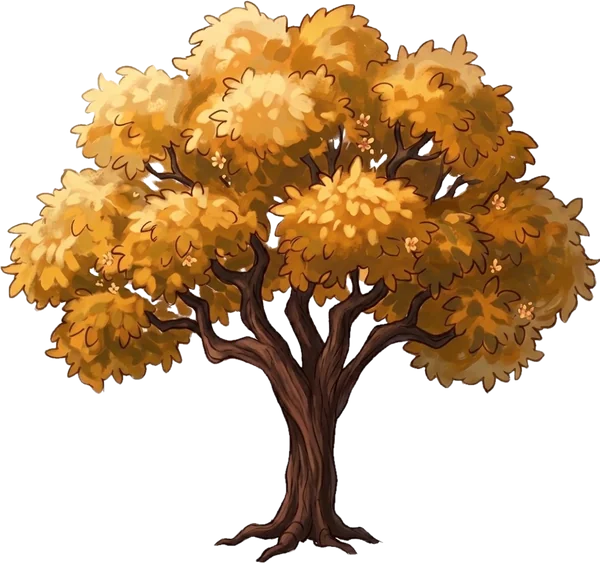
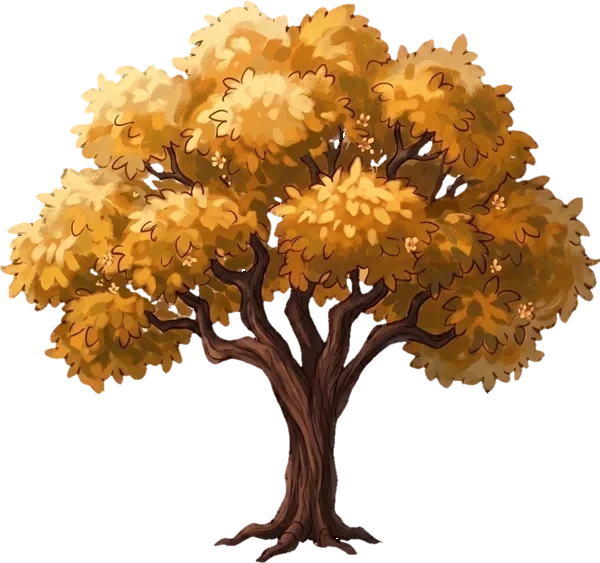
Prunera: sense la vora blanquinosa ni les taques blanques (nova eina netejar_vora.py)
Claude-Session: https://claude.ai/code/session_01Lxfm6YSSDLi4GYSBQ6SeDm

diff --git a/index.html b/index.html
@@ -32,7 +32,7 @@
     <!-- Tipografies al nostre servidor (eines/baixa_tipografies.py): el joc no demana res a Google -->
     <link rel="stylesheet" href="assets/fonts/fonts.css">
     <!-- Phaser va amb el joc (així no depèn de cap servidor extern); si el fitxer local fallés, es prova el CDN -->
-    <script src="js/lib/phaser.min.js?v=2611201745.80.1"></script>
+    <script src="js/lib/phaser.min.js?v=2611201747.80.1"></script>
     <script>if (typeof Phaser === 'undefined') document.write('<script src="https://cdn.jsdelivr.net/npm/phaser@3.80.1/dist/phaser.min.js"><\/script>');</script>
 </head>
 <body>
@@ -61,63 +61,63 @@
     <div id="joc"></div>
 
     <!-- L'ordre importa: cada fitxer fa servir coses dels anteriors -->
-    <script src="js/sfx.js?v=2611201745"></script>
-    <script src="js/partida.js?v=2611201745"></script>
-    <script src="js/progres.js?v=2611201745"></script>
-    <script src="js/dibuixos.js?v=2611201745"></script>
-    <script src="js/icones.js?v=2611201745"></script>
-    <script src="js/dibuixos_biblio.js?v=2611201745"></script>
-    <script src="js/dibuixos_cela.js?v=2611201745"></script>
-    <script src="js/dibuixos_taller.js?v=2611201745"></script>
-    <script src="js/dibuixos_cripta.js?v=2611201745"></script>
-    <script src="js/dibuixos_georgi.js?v=2611201745"></script>
-    <script src="js/dibuixos_oratori.js?v=2611201745"></script>
-    <script src="js/dibuixos_ermita.js?v=2611201745"></script>
-    <script src="js/dibuixos_casa.js?v=2611201745"></script>
-    <script src="js/dibuixos_proleg.js?v=2611201745"></script>
-    <script src="js/dibuixos_pingpong.js?v=2611201745"></script>
-    <script src="js/assets.js?v=2611201745"></script>
-    <script src="js/sombra_ineu.js?v=2611201745"></script>
-    <script src="js/dialegs.js?v=2611201745"></script>
-    <script src="js/ui.js?v=2611201745"></script>
-    <script src="js/zona_base.js?v=2611201745"></script>
-    <script src="js/atac_arma.js?v=2611201745"></script>
-    <script src="js/combat.js?v=2611201745"></script>
-    <script src="js/musica.js?v=2611201745"></script>
-    <script src="js/zones/placa.js?v=2611201745"></script>
-    <script src="js/zones/esglesia.js?v=2611201745"></script>
-    <script src="js/zones/monestir.js?v=2611201745"></script>
-    <script src="js/zones/bassadoria.js?v=2611201745"></script>
-    <script src="js/zones/casa_gran.js?v=2611201745"></script>
-    <script src="js/zones/nord.js?v=2611201745"></script>
-    <script src="js/zones/cirosa.js?v=2611201745"></script>
-    <script src="js/estels.js?v=2611201745"></script>
-    <script src="js/pingpong.js?v=2611201745"></script>
-    <script src="js/credits.js?v=2611201745"></script>
-    <script src="js/zones/oest.js?v=2611201745"></script>
-    <script src="js/zones/bosc_pi.js?v=2611201745"></script>
-    <script src="js/zones/cementiri.js?v=2611201745"></script>
-    <script src="js/zones/casa.js?v=2611201745"></script>
-    <script src="js/zones/cabana.js?v=2611201745"></script>
-    <script src="js/zones/cami.js?v=2611201745"></script>
-    <script src="js/zones/ermita.js?v=2611201745"></script>
-    <script src="js/zones/era.js?v=2611201745"></script>
-    <script src="js/zones/jardi.js?v=2611201745"></script>
-    <script src="js/zones/torre.js?v=2611201745"></script>
-    <script src="js/zones/hostatgeria.js?v=2611201745"></script>
-    <script src="js/zones/taverna.js?v=2611201745"></script>
-    <script src="js/zones/gabia.js?v=2611201745"></script>
-    <script src="js/zones/gabia_decor.js?v=2611201745"></script>
-    <script src="js/zones/biblioteca.js?v=2611201745"></script>
-    <script src="js/zones/rebedor.js?v=2611201745"></script>
-    <script src="js/zones/cela.js?v=2611201745"></script>
-    <script src="js/diari.js?v=2611201745"></script>
-    <script src="js/mapa.js?v=2611201745"></script>
-    <script src="js/proves_llistes.js?v=2611201745"></script>
-    <script src="js/proves_escenaris.js?v=2611201745"></script>
-    <script src="js/proves.js?v=2611201745"></script>
-    <script src="js/intro.js?v=2611201745"></script>
-    <script src="js/main.js?v=2611201745"></script>
+    <script src="js/sfx.js?v=2611201747"></script>
+    <script src="js/partida.js?v=2611201747"></script>
+    <script src="js/progres.js?v=2611201747"></script>
+    <script src="js/dibuixos.js?v=2611201747"></script>
+    <script src="js/icones.js?v=2611201747"></script>
+    <script src="js/dibuixos_biblio.js?v=2611201747"></script>
+    <script src="js/dibuixos_cela.js?v=2611201747"></script>
+    <script src="js/dibuixos_taller.js?v=2611201747"></script>
+    <script src="js/dibuixos_cripta.js?v=2611201747"></script>
+    <script src="js/dibuixos_georgi.js?v=2611201747"></script>
+    <script src="js/dibuixos_oratori.js?v=2611201747"></script>
+    <script src="js/dibuixos_ermita.js?v=2611201747"></script>
+    <script src="js/dibuixos_casa.js?v=2611201747"></script>
+    <script src="js/dibuixos_proleg.js?v=2611201747"></script>
+    <script src="js/dibuixos_pingpong.js?v=2611201747"></script>
+    <script src="js/assets.js?v=2611201747"></script>
+    <script src="js/sombra_ineu.js?v=2611201747"></script>
+    <script src="js/dialegs.js?v=2611201747"></script>
+    <script src="js/ui.js?v=2611201747"></script>
+    <script src="js/zona_base.js?v=2611201747"></script>
+    <script src="js/atac_arma.js?v=2611201747"></script>
+    <script src="js/combat.js?v=2611201747"></script>
+    <script src="js/musica.js?v=2611201747"></script>
+    <script src="js/zones/placa.js?v=2611201747"></script>
+    <script src="js/zones/esglesia.js?v=2611201747"></script>
+    <script src="js/zones/monestir.js?v=2611201747"></script>
+    <script src="js/zones/bassadoria.js?v=2611201747"></script>
+    <script src="js/zones/casa_gran.js?v=2611201747"></script>
+    <script src="js/zones/nord.js?v=2611201747"></script>
+    <script src="js/zones/cirosa.js?v=2611201747"></script>
+    <script src="js/estels.js?v=2611201747"></script>
+    <script src="js/pingpong.js?v=2611201747"></script>
+    <script src="js/credits.js?v=2611201747"></script>
+    <script src="js/zones/oest.js?v=2611201747"></script>
+    <script src="js/zones/bosc_pi.js?v=2611201747"></script>
+    <script src="js/zones/cementiri.js?v=2611201747"></script>
+    <script src="js/zones/casa.js?v=2611201747"></script>
+    <script src="js/zones/cabana.js?v=2611201747"></script>
+    <script src="js/zones/cami.js?v=2611201747"></script>
+    <script src="js/zones/ermita.js?v=2611201747"></script>
+    <script src="js/zones/era.js?v=2611201747"></script>
+    <script src="js/zones/jardi.js?v=2611201747"></script>
+    <script src="js/zones/torre.js?v=2611201747"></script>
+    <script src="js/zones/hostatgeria.js?v=2611201747"></script>
+    <script src="js/zones/taverna.js?v=2611201747"></script>
+    <script src="js/zones/gabia.js?v=2611201747"></script>
+    <script src="js/zones/gabia_decor.js?v=2611201747"></script>
+    <script src="js/zones/biblioteca.js?v=2611201747"></script>
+    <script src="js/zones/rebedor.js?v=2611201747"></script>
+    <script src="js/zones/cela.js?v=2611201747"></script>
+    <script src="js/diari.js?v=2611201747"></script>
+    <script src="js/mapa.js?v=2611201747"></script>
+    <script src="js/proves_llistes.js?v=2611201747"></script>
+    <script src="js/proves_escenaris.js?v=2611201747"></script>
+    <script src="js/proves.js?v=2611201747"></script>
+    <script src="js/intro.js?v=2611201747"></script>
+    <script src="js/main.js?v=2611201747"></script>
     <script>
         // Service worker: només amb http(s) (no obrint el fitxer directament) i sense fer fallar el joc si no pot ser
         window.addEventListener('load', () => { try { if (typeof game !== 'undefined') sessionStorage.removeItem('runna_reintent'); } catch (e) { } });

diff --git a/eines/netejar_vora.py b/eines/netejar_vora.py
@@ -1,0 +1,19 @@
+#!/usr/bin/env python3
+"""Treu la vora blanquinosa que queda al voltant d'un gràfic (i dels forats) en treure'n el fons blanc.
+   python3 eines/netejar_vora.py FITXER.webp [RADI=2]
+Els píxels de la vora (a menys de RADI px de la transparència) agafen el color del píxel opac més proper de l'interior;
+l'alfa no es toca (la silueta queda igual). Serveix per a dibuixos pictòrics sobre fons blanc (la prunera, etc.)."""
+import sys
+import numpy as np
+from PIL import Image
+from scipy import ndimage
+f = sys.argv[1]; r = int(sys.argv[2]) if len(sys.argv) > 2 else 2
+im = Image.open(f).convert('RGBA'); a = np.array(im)
+opac = a[..., 3] > 200
+interior = ndimage.binary_erosion(opac, iterations=r)
+vora = (a[..., 3] > 0) & ~interior
+idx = ndimage.distance_transform_edt(~interior, return_distances=False, return_indices=True)
+nou = a.copy()
+nou[vora, :3] = a[idx[0][vora], idx[1][vora], :3]
+Image.fromarray(nou, 'RGBA').save(f, 'WEBP', quality=90, alpha_quality=100, method=6)
+print(f, 'vora recolorada:', int(vora.sum()), 'px')

diff --git a/docs/PROMPTS_GRAFICS.md b/docs/PROMPTS_GRAFICS.md
@@ -356,7 +356,7 @@ A magical rune circle engraved into a stone floor, seen from a high three-quarte
 
 *Notes:* al joc es posa a mig camí entre dues columnes, des del capitell fins al muret, amb una opacitat del 60-80 % perquè es vegi l'Ineu a través; per això les vores laterals han de ser irregulars (les columnes les tapen una mica) i no hi ha d'haver fons.
 
-## [FET] La Prunera Màgica (jardí de l'Hostatgeria; `art/natura/prunera.jpg` → `assets/natura/prunera.webp` amb `eines/treure_fons.py ... 300 --forats 8`; ara el joc fa servir `arbre` tintat d'or, a `js/zones/jardi.js`)
+## [FET] La Prunera Màgica (jardí de l'Hostatgeria; `art/natura/prunera.jpg` → `assets/natura/prunera.webp` amb `eines/treure_fons.py ... 300 --forats 8`, i després `eines/netejar_vora.py assets/natura/prunera.webp` (treu la vora blanca); ara el joc fa servir `arbre` tintat d'or, a `js/zones/jardi.js`)
 
 *Entrada:* adjunta `art/natura/arbre.png` com a imatge de referència d'estil (mateix pinzell suau, mateixes ombres, **sense contorn negre gruixut**: els arbres van pictòrics, vegeu la revisió d'art). *Mida de sortida:* aprox. 1:1,1 (p. ex. 1200 × 1320); al joc faria uns 460 px d'ample (ara és l'`arbre` a escala 1,55). Només un arbre, fons blanc pur (el trec jo).
 
